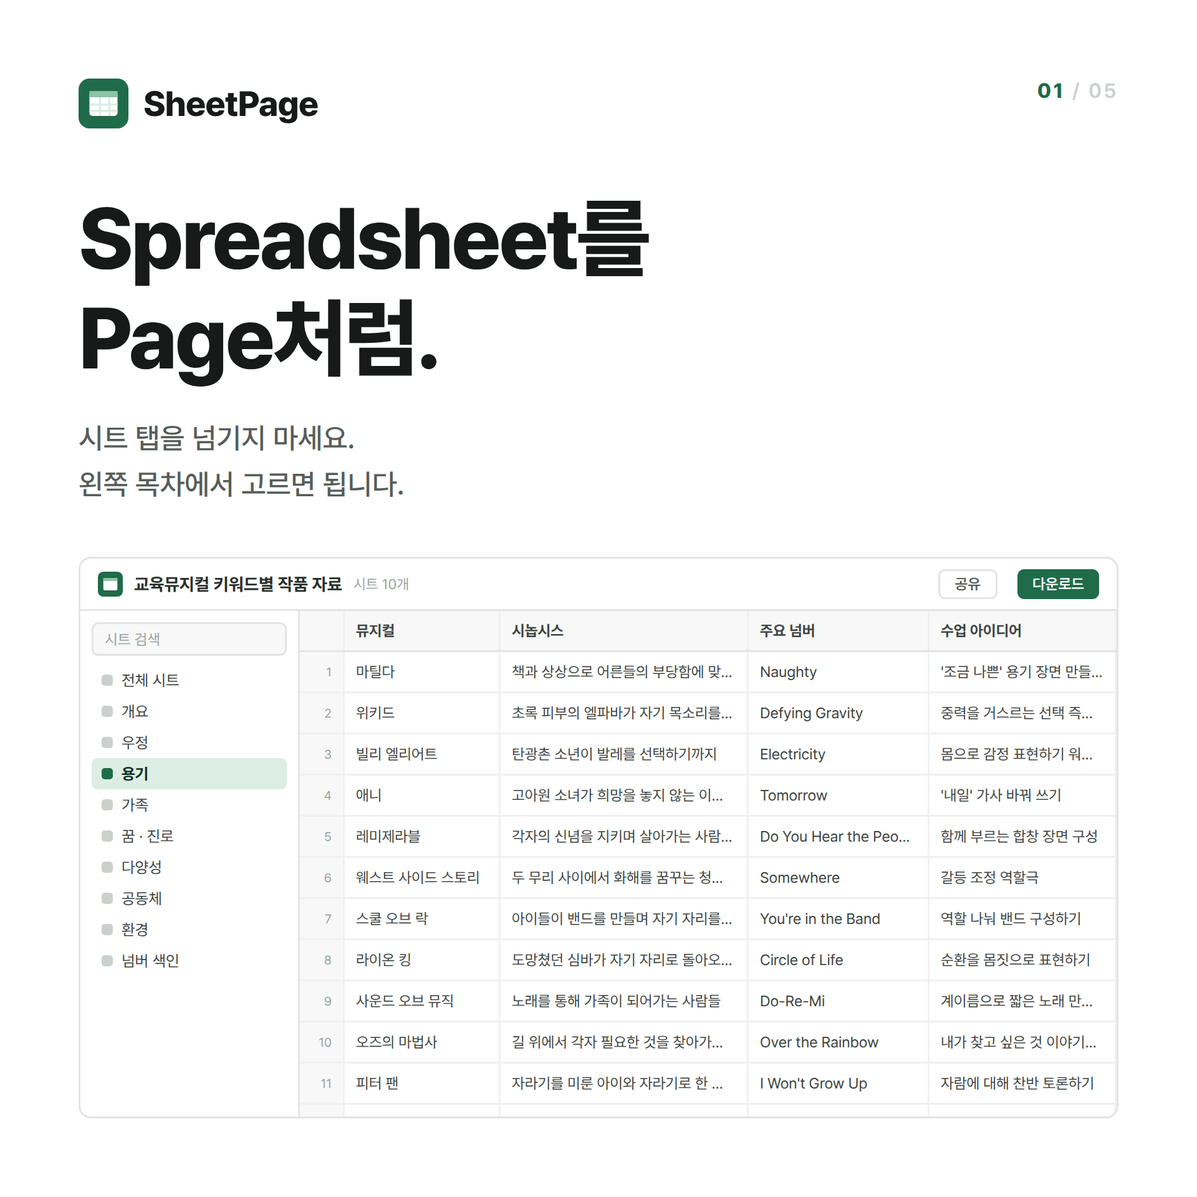
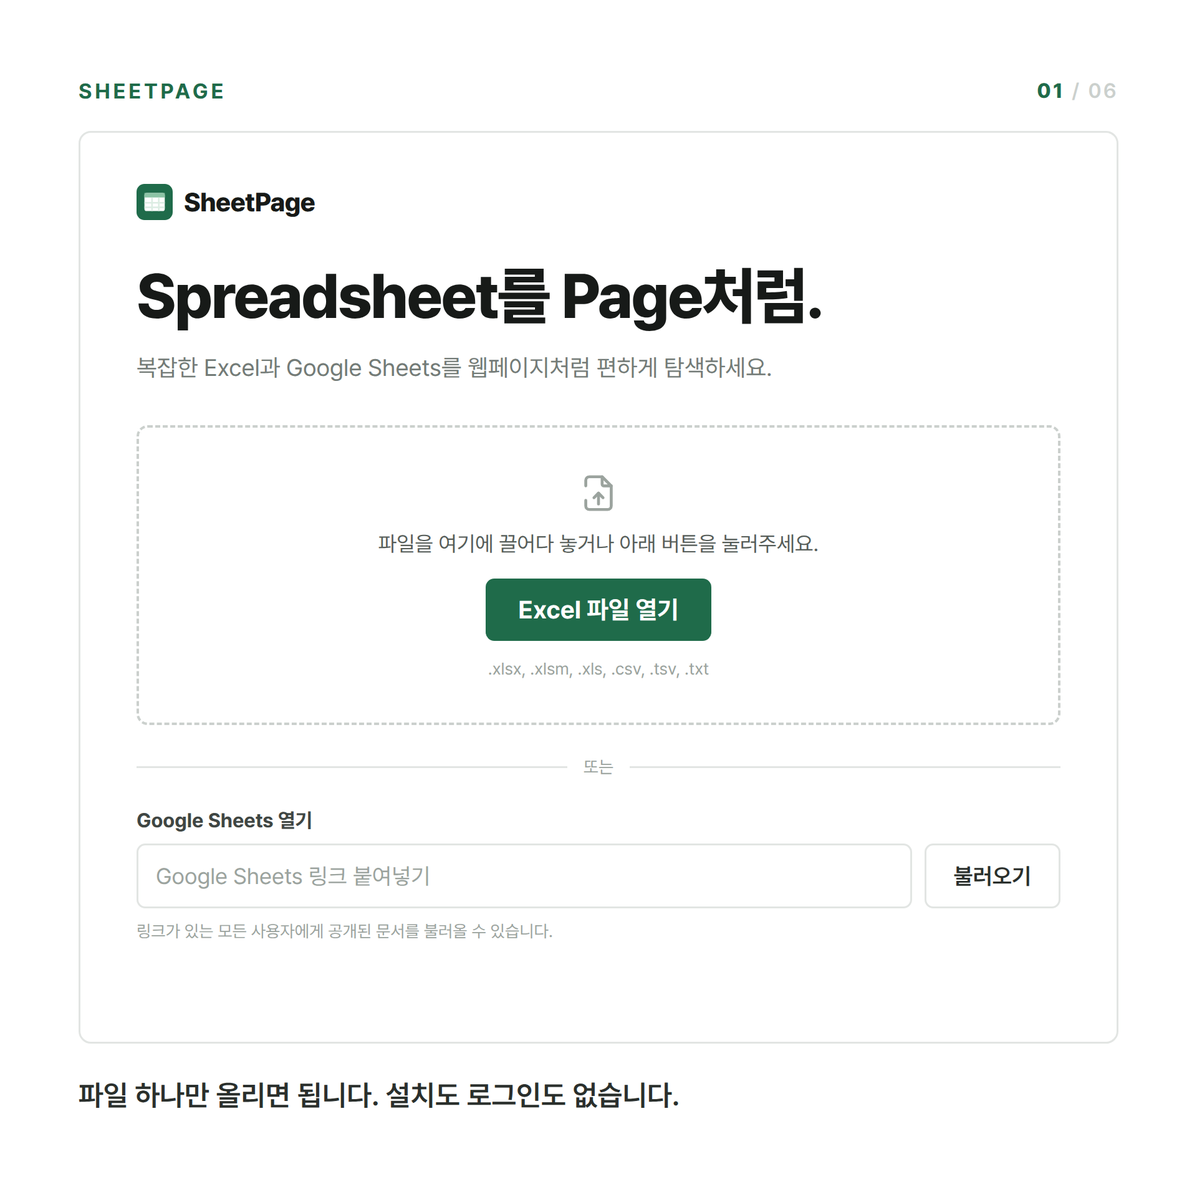
docs: card news becomes six cards, led by the app's own first screen
Three pieces of feedback.

The cover showed a workbook already open, which skips the moment that actually
sells the tool. It is now the app's real first screen — logo, tagline, the
drop zone with its supported formats, and the Google Sheets field — so the card
shows what someone sees when they arrive.

전체 시트 was buried as one cell in the feature grid despite being the answer to
"what is even in this file". It gets its own card, showing the real overview
screen: every sheet as a card with its size and the first rows, so the
structure of a ten-tab workbook reads at a glance. Features and outro shift to
05 and 06.

The three headlines were abstract. Each now says what changes for the person
holding the file rather than describing the product:

  시트는 탭이 아니라 페이지입니다  →  찾아 헤매지 말고, 한눈에 보고 고르세요
  탐색이 먼저, 그다음이 편집입니다  →  읽고, 고치고, 그대로 돌려받습니다
  탭이 많을수록 더 쉬워집니다      →  그 파일, 여기서 열어보세요

The new 04 follows the same rule: 열어보기 전에 무엇이 들어 있는지 압니다.

Claude-Session: https://claude.ai/code/session_01KWbYgYUuipQb8NS2rBP39c

diff --git a/assets/cardnews/cards.html b/assets/cardnews/cards.html
@@ -98,6 +98,46 @@
   .credit .k{font-size:33px;color:var(--ink-400);font-weight:600}
   .credit .v{font-size:39px;color:var(--ink-800);font-weight:700}
 
+  /* ---------- home screen mock (card 01) ---------- */
+  .home{display:flex;flex-direction:column;align-items:flex-start;padding:82px 90px}
+  .home .hlogo{display:flex;align-items:center;gap:18px;margin-bottom:64px}
+  .home .hlogo svg{width:58px;height:58px;display:block}
+  .home .hlogo span{font-size:42px;font-weight:800;letter-spacing:-.02em;color:var(--ink-900)}
+  .home h2{font-size:100px;font-weight:800;letter-spacing:-.03em;color:var(--ink-900);line-height:1.16}
+  .home .hsub{margin-top:28px;font-size:38px;color:var(--ink-500);line-height:1.5}
+  .drop{margin-top:64px;width:100%;border:4px dashed var(--ink-300);border-radius:18px;
+        padding:70px 40px;text-align:center}
+  .drop .di{width:70px;height:70px;margin:0 auto;color:var(--ink-400)}
+  .drop .dt{margin-top:22px;font-size:34px;color:var(--ink-600)}
+  .drop .db{margin-top:36px;display:inline-flex;height:100px;padding:0 52px;border-radius:14px;
+            background:var(--brand-600);color:#fff;font-size:40px;font-weight:700;align-items:center}
+  .drop .df{margin-top:28px;font-size:27px;color:var(--ink-400)}
+  .orline{margin:50px 0;display:flex;align-items:center;gap:26px;width:100%}
+  .orline .l{height:3px;flex:1;background:var(--ink-200)}
+  .orline .o{font-size:28px;color:var(--ink-400)}
+  .glabel{font-size:32px;font-weight:700;color:var(--ink-700);margin-bottom:18px}
+  .grow2{display:flex;gap:20px;width:100%}
+  .ginput{flex:1;height:104px;border:3px solid var(--ink-200);border-radius:14px;display:flex;
+          align-items:center;padding:0 28px;font-size:36px;color:var(--ink-400)}
+  .gbtn{height:104px;padding:0 44px;border:3px solid var(--ink-200);border-radius:14px;display:flex;
+        align-items:center;font-size:36px;font-weight:600;color:var(--ink-800)}
+  .ghint{margin-top:20px;font-size:27px;color:var(--ink-400)}
+
+  /* ---------- overview cards (card 04) ---------- */
+  .ovgrid{display:grid;grid-template-columns:repeat(3,1fr);gap:26px;flex:1}
+  .ovcard{border:3px solid var(--ink-200);border-radius:16px;padding:28px;background:#fff;
+          display:flex;flex-direction:column}
+  .ovcard.on{border-color:var(--brand-400,#55A47D)}
+  .ovtop{display:flex;align-items:baseline;gap:14px}
+  .ovtop .idx{font-size:24px;color:var(--ink-400);font-weight:600}
+  .ovtop .nm{font-size:34px;font-weight:700;color:var(--ink-900)}
+  .ovsize{margin-top:6px;font-size:24px;color:var(--ink-400)}
+  .ovprev{margin-top:22px;flex:1;border:3px solid var(--ink-100);border-radius:10px;
+          background:var(--ink-50);padding:16px 18px}
+  .ovprev .pl{display:flex;gap:18px;font-size:23px;line-height:1.9;color:var(--ink-500);white-space:nowrap;overflow:hidden}
+  .ovprev .pl.h{color:var(--ink-700);font-weight:700}
+  .ovprev .pl b{font-weight:400}
+
   /* ---------- philosophy split ---------- */
   .versus{display:flex;gap:36px;align-items:stretch;flex:1;min-height:0}
   .vcol{flex:1;display:flex;flex-direction:column;min-width:0}
@@ -109,66 +149,51 @@
 </head>
 <body>
 
-<!-- ==================== 01 표지 ==================== -->
+<!-- ==================== 01 표지 · 앱 첫 화면 ==================== -->
 <div class="card" id="c1">
-  <div class="pager"><b>01</b> / 05</div>
-  <div class="logo">
-    <svg viewBox="0 0 32 32"><rect width="32" height="32" rx="7" fill="#1F6B4A"/><rect x="7" y="8" width="18" height="16" rx="2" fill="#fff"/><rect x="7" y="8" width="18" height="4" fill="#8CC3A5"/><rect x="13" y="12" width="1.4" height="12" fill="#DCEDE3"/><rect x="19" y="12" width="1.4" height="12" fill="#DCEDE3"/><rect x="7" y="16" width="18" height="1.4" fill="#DCEDE3"/><rect x="7" y="20" width="18" height="1.4" fill="#DCEDE3"/></svg>
-    <span class="name">SheetPage</span>
-  </div>
+  <div class="pager"><b>01</b> / 06</div>
+  <div style="font-size:34px;font-weight:700;letter-spacing:.14em;color:var(--brand-600)">SHEETPAGE</div>
 
-  <div style="margin-top:96px">
-    <h1 class="big">Spreadsheet를<br/>Page처럼.</h1>
-    <p class="lead" style="margin-top:44px">
-      시트 탭을 넘기지 마세요.<br/>왼쪽 목차에서 고르면 됩니다.
-    </p>
-  </div>
-
-  <div class="win" style="margin-top:80px;flex:1">
-    <div class="bar">
-      <svg viewBox="0 0 32 32" style="width:40px;height:40px"><rect width="32" height="32" rx="7" fill="#1F6B4A"/><rect x="7" y="8" width="18" height="16" rx="2" fill="#fff"/><rect x="7" y="8" width="18" height="4" fill="#8CC3A5"/></svg>
-      <span class="t">교육뮤지컬 키워드별 작품 자료</span>
-      <span class="s">시트 10개</span>
-      <span class="pill gh" style="margin-left:auto">공유</span>
-      <span class="pill pri" style="margin-left:14px">다운로드</span>
+  <div class="win home" style="margin-top:44px;flex:1">
+    <div class="hlogo">
+      <svg viewBox="0 0 32 32"><rect width="32" height="32" rx="7" fill="#1F6B4A"/><rect x="7" y="8" width="18" height="16" rx="2" fill="#fff"/><rect x="7" y="8" width="18" height="4" fill="#8CC3A5"/><rect x="13" y="12" width="1.4" height="12" fill="#DCEDE3"/><rect x="19" y="12" width="1.4" height="12" fill="#DCEDE3"/><rect x="7" y="16" width="18" height="1.4" fill="#DCEDE3"/><rect x="7" y="20" width="18" height="1.4" fill="#DCEDE3"/></svg>
+      <span>SheetPage</span>
     </div>
-    <div class="bd">
-      <div class="side">
-        <div class="srch">시트 검색</div>
-        <div class="srow"><span class="d"></span>전체 시트</div>
-        <div class="srow"><span class="d"></span>개요</div>
-        <div class="srow"><span class="d"></span>우정</div>
-        <div class="srow on"><span class="d"></span>용기</div>
-        <div class="srow"><span class="d"></span>가족</div>
-        <div class="srow"><span class="d"></span>꿈 · 진로</div>
-        <div class="srow"><span class="d"></span>다양성</div>
-        <div class="srow"><span class="d"></span>공동체</div>
-        <div class="srow"><span class="d"></span>환경</div>
-        <div class="srow"><span class="d"></span>넘버 색인</div>
+
+    <h2>Spreadsheet를 Page처럼.</h2>
+    <p class="hsub">복잡한 Excel과 Google Sheets를 웹페이지처럼 편하게 탐색하세요.</p>
+
+    <div class="drop">
+      <svg class="di" viewBox="0 0 24 24" fill="none" stroke="currentColor" stroke-width="1.6" stroke-linecap="round" stroke-linejoin="round">
+        <path d="M14 3v4a1 1 0 0 0 1 1h4"/>
+        <path d="M5 8V5a2 2 0 0 1 2-2h7l5 5v11a2 2 0 0 1-2 2H7a2 2 0 0 1-2-2v-3"/>
+        <path d="M12 18v-6"/><path d="M9.5 14.5 12 12l2.5 2.5"/>
+      </svg>
+      <p class="dt">파일을 여기에 끌어다 놓거나 아래 버튼을 눌러주세요.</p>
+      <div class="db">Excel 파일 열기</div>
+      <p class="df">.xlsx, .xlsm, .xls, .csv, .tsv, .txt</p>
+    </div>
+
+    <div class="orline"><span class="l"></span><span class="o">또는</span><span class="l"></span></div>
+
+    <div style="width:100%">
+      <div class="glabel">Google Sheets 열기</div>
+      <div class="grow2">
+        <div class="ginput">Google Sheets 링크 붙여넣기</div>
+        <div class="gbtn">불러오기</div>
       </div>
-      <div class="gridarea">
-        <div class="gr h"><div class="gc gn"></div><div class="gc" style="width:250px">뮤지컬</div><div class="gc" style="flex:1">시놉시스</div><div class="gc" style="width:290px">주요 넘버</div><div class="gc" style="width:300px">수업 아이디어</div></div>
-        <div class="gr"><div class="gc gn">1</div><div class="gc" style="width:250px"><span>마틸다</span></div><div class="gc" style="flex:1"><span>책과 상상으로 어른들의 부당함에 맞서는 소녀</span></div><div class="gc" style="width:290px"><span>Naughty</span></div><div class="gc" style="width:300px"><span>'조금 나쁜' 용기 장면 만들기</span></div></div>
-        <div class="gr"><div class="gc gn">2</div><div class="gc" style="width:250px"><span>위키드</span></div><div class="gc" style="flex:1"><span>초록 피부의 엘파바가 자기 목소리를 찾아가는 이야기</span></div><div class="gc" style="width:290px"><span>Defying Gravity</span></div><div class="gc" style="width:300px"><span>중력을 거스르는 선택 즉흥극</span></div></div>
-        <div class="gr"><div class="gc gn">3</div><div class="gc" style="width:250px"><span>빌리 엘리어트</span></div><div class="gc" style="flex:1"><span>탄광촌 소년이 발레를 선택하기까지</span></div><div class="gc" style="width:290px"><span>Electricity</span></div><div class="gc" style="width:300px"><span>몸으로 감정 표현하기 워크숍</span></div></div>
-        <div class="gr"><div class="gc gn">4</div><div class="gc" style="width:250px"><span>애니</span></div><div class="gc" style="flex:1"><span>고아원 소녀가 희망을 놓지 않는 이야기</span></div><div class="gc" style="width:290px"><span>Tomorrow</span></div><div class="gc" style="width:300px"><span>'내일' 가사 바꿔 쓰기</span></div></div>
-        <div class="gr"><div class="gc gn">5</div><div class="gc" style="width:250px"><span>레미제라블</span></div><div class="gc" style="flex:1"><span>각자의 신념을 지키며 살아가는 사람들의 이야기</span></div><div class="gc" style="width:290px"><span>Do You Hear the People Sing?</span></div><div class="gc" style="width:300px"><span>함께 부르는 합창 장면 구성</span></div></div>
-        <div class="gr"><div class="gc gn">6</div><div class="gc" style="width:250px"><span>웨스트 사이드 스토리</span></div><div class="gc" style="flex:1"><span>두 무리 사이에서 화해를 꿈꾸는 청춘들</span></div><div class="gc" style="width:290px"><span>Somewhere</span></div><div class="gc" style="width:300px"><span>갈등 조정 역할극</span></div></div>
-        <div class="gr"><div class="gc gn">7</div><div class="gc" style="width:250px"><span>스쿨 오브 락</span></div><div class="gc" style="flex:1"><span>아이들이 밴드를 만들며 자기 자리를 찾는 이야기</span></div><div class="gc" style="width:290px"><span>You're in the Band</span></div><div class="gc" style="width:300px"><span>역할 나눠 밴드 구성하기</span></div></div>
-        <div class="gr"><div class="gc gn">8</div><div class="gc" style="width:250px"><span>라이온 킹</span></div><div class="gc" style="flex:1"><span>도망쳤던 심바가 자기 자리로 돌아오기까지</span></div><div class="gc" style="width:290px"><span>Circle of Life</span></div><div class="gc" style="width:300px"><span>순환을 몸짓으로 표현하기</span></div></div>
-        <div class="gr"><div class="gc gn">9</div><div class="gc" style="width:250px"><span>사운드 오브 뮤직</span></div><div class="gc" style="flex:1"><span>노래를 통해 가족이 되어가는 사람들</span></div><div class="gc" style="width:290px"><span>Do-Re-Mi</span></div><div class="gc" style="width:300px"><span>계이름으로 짧은 노래 만들기</span></div></div>
-        <div class="gr"><div class="gc gn">10</div><div class="gc" style="width:250px"><span>오즈의 마법사</span></div><div class="gc" style="flex:1"><span>길 위에서 각자 필요한 것을 찾아가는 여정</span></div><div class="gc" style="width:290px"><span>Over the Rainbow</span></div><div class="gc" style="width:300px"><span>내가 찾고 싶은 것 이야기하기</span></div></div>
-        <div class="gr"><div class="gc gn">11</div><div class="gc" style="width:250px"><span>피터 팬</span></div><div class="gc" style="flex:1"><span>자라기를 미룬 아이와 자라기로 한 아이</span></div><div class="gc" style="width:290px"><span>I Won't Grow Up</span></div><div class="gc" style="width:300px"><span>자람에 대해 찬반 토론하기</span></div></div>
-        <div class="gr"><div class="gc gn">12</div><div class="gc" style="width:250px"><span>알라딘</span></div><div class="gc" style="flex:1"><span>자기를 속이지 않기로 결심한 소년</span></div><div class="gc" style="width:290px"><span>A Whole New World</span></div><div class="gc" style="width:300px"><span>새로운 세계 장면 그려보기</span></div></div>
-        <div class="gr"><div class="gc gn">13</div><div class="gc" style="width:250px"><span>찰리와 초콜릿 공장</span></div><div class="gc" style="flex:1"><span>끝까지 남는 것은 정직함이라는 이야기</span></div><div class="gc" style="width:290px"><span>Pure Imagination</span></div><div class="gc" style="width:300px"><span>상상으로 공간 만들기</span></div></div>
-      </div>
+      <p class="ghint">링크가 있는 모든 사용자에게 공개된 문서를 불러올 수 있습니다.</p>
     </div>
   </div>
+
+  <p class="lead" style="margin-top:46px;color:var(--ink-800);font-weight:600">
+    파일 하나만 올리면 됩니다. 설치도 로그인도 없습니다.
+  </p>
 </div>
 
 <!-- ==================== 02 문제인식 ==================== -->
 <div class="card" id="c2">
-  <div class="pager"><b>02</b> / 05</div>
+  <div class="pager"><b>02</b> / 06</div>
   <div class="eyebrow">Problem</div>
   <h1 style="margin-top:30px">자료는 잘 정리했는데,<br/>정작 <span style="color:var(--brand-600)">찾기가 어렵습니다.</span></h1>
   <p class="lead" style="margin-top:34px">키워드별로 탭을 나눌수록 하단 탭은 더 좁아집니다.</p>
@@ -198,11 +223,11 @@
 
 <!-- ==================== 03 개요 · 철학 ==================== -->
 <div class="card" id="c3">
-  <div class="pager"><b>03</b> / 05</div>
+  <div class="pager"><b>03</b> / 06</div>
   <div class="eyebrow">What it is</div>
-  <h1 style="margin-top:30px">시트는 탭이 아니라<br/><span style="color:var(--brand-600)">페이지</span>입니다.</h1>
+  <h1 style="margin-top:30px">찾아 헤매지 말고,<br/><span style="color:var(--brand-600)">한눈에 보고 고르세요.</span></h1>
   <p class="lead" style="margin-top:32px">
-    같은 파일을 열었을 뿐인데, 문서의 구조가 눈에 들어옵니다.
+    똑같은 파일입니다. 시트 목록을 어디에 두느냐가 다를 뿐입니다.
   </p>
 
   <div class="versus" style="margin-top:56px">
@@ -288,11 +313,83 @@
   </div>
 </div>
 
-<!-- ==================== 04 기능 ==================== -->
+<!-- ==================== 04 전체 시트 ==================== -->
 <div class="card" id="c4">
-  <div class="pager"><b>04</b> / 05</div>
+  <div class="pager"><b>04</b> / 06</div>
+  <div class="eyebrow">Overview</div>
+  <h1 style="margin-top:30px">열어보기 전에<br/><span style="color:var(--brand-600)">무엇이 들어 있는지</span> 압니다.</h1>
+  <p class="lead" style="margin-top:32px">
+    전체 시트 화면이 모든 시트를 목차처럼 펼쳐 보여줍니다.
+  </p>
+
+  <div class="win" style="margin-top:52px;flex:1;min-height:0">
+    <div class="bar">
+      <svg viewBox="0 0 32 32" style="width:40px;height:40px"><rect width="32" height="32" rx="7" fill="#1F6B4A"/><rect x="7" y="8" width="18" height="16" rx="2" fill="#fff"/><rect x="7" y="8" width="18" height="4" fill="#8CC3A5"/></svg>
+      <span class="t">교육뮤지컬 키워드별 작품 자료</span>
+      <span class="s">시트 10개</span>
+    </div>
+    <div class="bd">
+      <div class="side" style="width:268px;padding:16px">
+        <div class="srch" style="height:48px;font-size:22px;margin-bottom:12px">시트 검색</div>
+        <div class="srow on" style="height:46px;font-size:23px">전체 시트</div>
+        <div class="srow" style="height:46px;font-size:23px">개요</div>
+        <div class="srow" style="height:46px;font-size:23px">우정</div>
+        <div class="srow" style="height:46px;font-size:23px">용기</div>
+        <div class="srow" style="height:46px;font-size:23px">가족</div>
+        <div class="srow" style="height:46px;font-size:23px">꿈 · 진로</div>
+        <div class="srow" style="height:46px;font-size:23px">다양성</div>
+        <div class="srow" style="height:46px;font-size:23px">공동체</div>
+        <div class="srow" style="height:46px;font-size:23px">환경</div>
+      </div>
+      <div style="flex:1;min-width:0;padding:28px;background:var(--canvas);display:flex;flex-direction:column">
+        <div style="font-size:30px;font-weight:700;color:var(--ink-900)">교육뮤지컬 키워드별 작품 자료</div>
+        <div style="margin-top:6px;font-size:24px;color:var(--ink-500)">시트 10개 · 보려는 시트를 선택하세요.</div>
+        <div class="ovgrid" style="margin-top:26px">
+          <div class="ovcard">
+            <div class="ovtop"><span class="idx">01</span><span class="nm">개요</span></div>
+            <div class="ovsize">12행 · 4열</div>
+            <div class="ovprev"><div class="pl h"><span style="width:150px;overflow:hidden;text-overflow:ellipsis">키워드</span><span style="flex:1;overflow:hidden;text-overflow:ellipsis">작품 수</span></div><div class="pl"><span style="width:150px;overflow:hidden;text-overflow:ellipsis">우정</span><span style="flex:1;overflow:hidden;text-overflow:ellipsis">6편</span></div><div class="pl"><span style="width:150px;overflow:hidden;text-overflow:ellipsis">용기</span><span style="flex:1;overflow:hidden;text-overflow:ellipsis">13편</span></div></div>
+          </div>
+          <div class="ovcard">
+            <div class="ovtop"><span class="idx">02</span><span class="nm">우정</span></div>
+            <div class="ovsize">9행 · 5열</div>
+            <div class="ovprev"><div class="pl h"><span style="width:150px;overflow:hidden;text-overflow:ellipsis">뮤지컬</span><span style="flex:1;overflow:hidden;text-overflow:ellipsis">시놉시스</span></div><div class="pl"><span style="width:150px;overflow:hidden;text-overflow:ellipsis">위키드</span><span style="flex:1;overflow:hidden;text-overflow:ellipsis">두 마녀가 서로를…</span></div><div class="pl"><span style="width:150px;overflow:hidden;text-overflow:ellipsis">애니</span><span style="flex:1;overflow:hidden;text-overflow:ellipsis">고아원 소녀가…</span></div></div>
+          </div>
+          <div class="ovcard">
+            <div class="ovtop"><span class="idx">03</span><span class="nm">용기</span></div>
+            <div class="ovsize">14행 · 5열</div>
+            <div class="ovprev"><div class="pl h"><span style="width:150px;overflow:hidden;text-overflow:ellipsis">뮤지컬</span><span style="flex:1;overflow:hidden;text-overflow:ellipsis">시놉시스</span></div><div class="pl"><span style="width:150px;overflow:hidden;text-overflow:ellipsis">마틸다</span><span style="flex:1;overflow:hidden;text-overflow:ellipsis">책과 상상으로…</span></div><div class="pl"><span style="width:150px;overflow:hidden;text-overflow:ellipsis">위키드</span><span style="flex:1;overflow:hidden;text-overflow:ellipsis">초록 피부의…</span></div></div>
+          </div>
+          <div class="ovcard">
+            <div class="ovtop"><span class="idx">04</span><span class="nm">가족</span></div>
+            <div class="ovsize">11행 · 5열</div>
+            <div class="ovprev"><div class="pl h"><span style="width:150px;overflow:hidden;text-overflow:ellipsis">뮤지컬</span><span style="flex:1;overflow:hidden;text-overflow:ellipsis">시놉시스</span></div><div class="pl"><span style="width:150px;overflow:hidden;text-overflow:ellipsis">라이온 킹</span><span style="flex:1;overflow:hidden;text-overflow:ellipsis">도망쳤던 심바가…</span></div><div class="pl"><span style="width:150px;overflow:hidden;text-overflow:ellipsis">사운드 오브…</span><span style="flex:1;overflow:hidden;text-overflow:ellipsis">노래를 통해…</span></div></div>
+          </div>
+          <div class="ovcard">
+            <div class="ovtop"><span class="idx">05</span><span class="nm">꿈 · 진로</span></div>
+            <div class="ovsize">10행 · 5열</div>
+            <div class="ovprev"><div class="pl h"><span style="width:150px;overflow:hidden;text-overflow:ellipsis">뮤지컬</span><span style="flex:1;overflow:hidden;text-overflow:ellipsis">시놉시스</span></div><div class="pl"><span style="width:150px;overflow:hidden;text-overflow:ellipsis">빌리 엘리어트</span><span style="flex:1;overflow:hidden;text-overflow:ellipsis">탄광촌 소년이…</span></div><div class="pl"><span style="width:150px;overflow:hidden;text-overflow:ellipsis">스쿨 오브 락</span><span style="flex:1;overflow:hidden;text-overflow:ellipsis">아이들이 밴드를…</span></div></div>
+          </div>
+          <div class="ovcard">
+            <div class="ovtop"><span class="idx">06</span><span class="nm">다양성</span></div>
+            <div class="ovsize">8행 · 5열</div>
+            <div class="ovprev"><div class="pl h"><span style="width:150px;overflow:hidden;text-overflow:ellipsis">뮤지컬</span><span style="flex:1;overflow:hidden;text-overflow:ellipsis">시놉시스</span></div><div class="pl"><span style="width:150px;overflow:hidden;text-overflow:ellipsis">웨스트 사이드…</span><span style="flex:1;overflow:hidden;text-overflow:ellipsis">두 무리 사이에서…</span></div><div class="pl"><span style="width:150px;overflow:hidden;text-overflow:ellipsis">코러스 라인</span><span style="flex:1;overflow:hidden;text-overflow:ellipsis">무대에 서기 위해…</span></div></div>
+          </div>
+        </div>
+      </div>
+    </div>
+  </div>
+
+  <p class="lead" style="margin-top:44px;color:var(--ink-800);font-weight:600">
+    탭을 하나씩 눌러보며 확인할 일이 없습니다.
+  </p>
+</div>
+
+<!-- ==================== 05 기능 ==================== -->
+<div class="card" id="c5">
+  <div class="pager"><b>05</b> / 06</div>
   <div class="eyebrow">Features</div>
-  <h1 style="margin-top:30px">탐색이 먼저,<br/>그다음이 편집입니다.</h1>
+  <h1 style="margin-top:30px">읽고, 고치고,<br/><span style="color:var(--brand-600)">그대로 돌려받습니다.</span></h1>
 
   <div class="rw" style="margin-top:64px;flex:1">
     <div class="rh"><div class="cn"></div><div class="cl">A</div><div class="cl">B</div></div>
@@ -320,18 +417,18 @@
 </div>
 
 <!-- ==================== 05 아웃트로 ==================== -->
-<div class="card" id="c5">
-  <div class="pager"><b>05</b> / 05</div>
+<div class="card" id="c6">
+  <div class="pager"><b>06</b> / 06</div>
   <div class="logo">
     <svg viewBox="0 0 32 32"><rect width="32" height="32" rx="7" fill="#1F6B4A"/><rect x="7" y="8" width="18" height="16" rx="2" fill="#fff"/><rect x="7" y="8" width="18" height="4" fill="#8CC3A5"/><rect x="13" y="12" width="1.4" height="12" fill="#DCEDE3"/><rect x="19" y="12" width="1.4" height="12" fill="#DCEDE3"/><rect x="7" y="16" width="18" height="1.4" fill="#DCEDE3"/><rect x="7" y="20" width="18" height="1.4" fill="#DCEDE3"/></svg>
     <span class="name">SheetPage</span>
   </div>
 
   <div style="margin-top:auto;margin-bottom:auto">
-    <h1 class="big">탭이 많을수록<br/>더 쉬워집니다.</h1>
+    <h1 class="big">그 파일,<br/>여기서 열어보세요.</h1>
     <p class="lead" style="margin-top:52px">
-      정리해두신 자료 파일 하나만 올려보세요.<br/>
-      시트가 페이지가 되는 순간을 바로 보실 수 있습니다.
+      탭이 많아 미뤄두었던 파일일수록<br/>
+      달라지는 게 바로 보입니다.
     </p>
     <div class="urlbox" style="margin-top:66px">
       <svg viewBox="0 0 24 24" style="width:44px;height:44px;fill:none;stroke:#1A573D;stroke-width:2.2;stroke-linecap:round">
